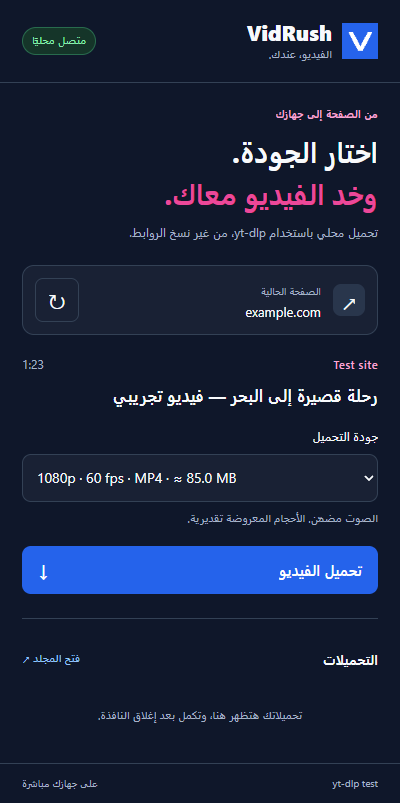
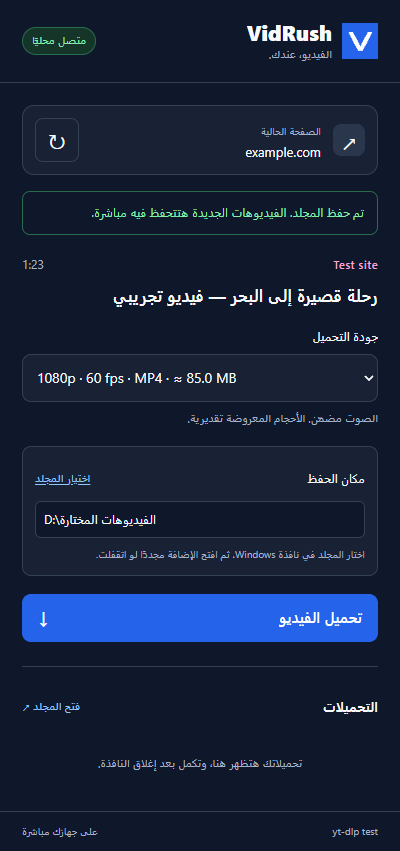
docs: explain folder selection and remembered save locations
Update the English guide and screenshot with Windows folder selection, cancellation behavior, existing-download semantics, update steps, and troubleshooting.

Committed-By-Agent: codex

diff --git a/README.md b/README.md
@@ -23,6 +23,7 @@ VidRush consists of a Chrome extension and a local companion powered by [yt-dlp]
 
 - Analyze the video page currently open in Chrome.
 - Choose from available resolutions, frame rates, and output containers.
+- Choose a download folder with the Windows folder picker; your choice is remembered.
 - Download video **with audio**, including formats that require merging.
 - Follow progress, cancel a download, and open the download folder.
 - Close the extension popup while downloads continue. **Keep Chrome running.**
@@ -82,30 +83,33 @@ The guide is saved at `%LOCALAPPDATA%\VidRush\setup-guide.html`; double-click it
 2. Click the **VidRush** toolbar icon.
 3. Wait for the connection badge to show **`متصل محليًا`** (Connected locally), then wait for analysis to finish.
 4. Check the video title. Select a quality under **`جودة التحميل`** (Download quality).
-5. Click **`تحميل الفيديو`** (Download video).
-6. Follow the download under **`التحميلات`** (Downloads). You can close the popup; keep Chrome open.
-7. When the status says **`اكتمل التحميل`** (Completed), click **`فتح المجلد`** (Open folder).
+5. Under **`مكان الحفظ`** (Save location), check the displayed folder. To change it, click **`اختيار المجلد`** (Choose folder), select your folder in Windows, then reopen VidRush if the popup closed. Your selection is saved automatically.
+6. Click **`تحميل الفيديو`** (Download video). The file is saved directly into the folder shown; no move is needed afterward.
+7. Follow the download under **`التحميلات`** (Downloads). You can close the popup; keep Chrome open.
+8. When the status says **`اكتمل التحميل`** (Completed), click **`فتح المجلد`** (Open folder) on that download to open its actual saved location.
 
 The circular-arrow button re-analyzes the current page. Use **`إلغاء`** (Cancel) beside an active download to stop it. Up to **two downloads** can run at once.
 
 ### Where files are saved
 
-Files go into **`VidRush` inside your Windows Downloads folder**, including a Downloads folder you relocated in Windows. For a standard account this is:
+By default, files go into **`VidRush` inside your Windows Downloads folder**, including a Downloads folder you relocated in Windows. For a standard account this is:
 
 ```text
 C:\Users\<your-user>\Downloads\VidRush
 ```
 
-The installer prints the exact destination, and the extension's Open folder button opens it. Downloads are written by the companion, so they do **not** appear in Chrome's built-in download manager.
+The extension shows the current destination under **Save location**. Each download also keeps its own destination. The top Open folder button opens the current default folder; a completed download's Open folder button opens that video's folder. Downloads are written by the companion, so they do **not** appear in Chrome's built-in download manager.
 
 To change the destination:
 
-1. Close Chrome so the companion stops.
-2. Open `%LOCALAPPDATA%\VidRush\config.json` in a text editor.
-3. Change `downloadDir` to an absolute folder path. In JSON, use double backslashes, for example `"D:\\My Videos"`.
-4. Save the file and reopen Chrome.
+1. Open VidRush on a video page and wait for the quality choices.
+2. Click **`اختيار المجلد`** (Choose folder) below the quality list.
+3. Choose an existing folder, or create a new one using the Windows folder dialog, and confirm.
+4. Reopen the extension if it closed while the Windows dialog had focus. Check the displayed path, then start the download.
 
-Reinstalling preserves your existing `downloadDir` setting.
+The folder is remembered across Chrome restarts and becomes the default for new downloads. Cancelling leaves the previous setting unchanged. Existing files and downloads already in progress stay in their original folders. If the folder cannot be written to or the setting cannot be saved, VidRush reports an error and keeps the previous destination. No configuration-file editing is required.
+
+Reinstalling preserves your selected folder. **After updating to this feature, close Chrome, rerun `Install.cmd`, and reload the extension** so the companion includes the native folder picker.
 
 File names include the source video ID and format IDs, so different qualities of the same video can be saved separately. Downloading the same choice again does not overwrite an existing file.
 
@@ -170,6 +174,10 @@ If you customized `downloadDir` to point inside the companion installation folde
 | Analysis times out | Retry on the individual video's page. Analysis has a 90-second limit. Check the connection and update the companion. |
 | Download fails with a site error | The original yt-dlp error appears in the download card. Update the companion. Authentication and anti-bot restrictions may still prevent downloading. |
 | Quality list is old or selection expired | Press the circular-arrow button to analyze the page again. |
+| Popup closes when choosing a folder | Finish or cancel the Windows dialog, then click VidRush again. The background connection retains your selection. |
+| Folder picker is already open | Finish or cancel the existing Windows folder dialog before starting another selection. |
+| Choosing a folder reports an unknown action | Close Chrome, rerun `Install.cmd`, reopen Chrome and reload VidRush. Both the extension and companion must be updated. |
+| A folder cannot be saved or written to | Choose a writable folder on an available drive, check its permissions and free space, and retry. The previous folder remains selected if saving fails. |
 | Download percentage restarts | Separate audio and video tracks have their own progress. Wait until the final status is Completed. |
 | No download appears in Chrome's manager | This is expected. Use VidRush's Open folder button; the companion saves files directly. |
 | Files stop after closing Chrome | Keep Chrome running during downloads. Re-analyze and retry after reopening it. |
@@ -235,7 +243,7 @@ To run an additional end-to-end native test on Windows **after installing the co
 npm run test:native
 ```
 
-This generates an original test video using FFmpeg, serves it on localhost, and sends real framed messages to the companion to analyze and download it with yt-dlp. Temporary files are isolated from your regular download folder.
+This generates an original test video using FFmpeg, serves it on localhost, and sends real framed messages to the companion to analyze and download it with yt-dlp. It also persists an injected folder selection, restarts the companion, and verifies that the actual files land in that Unicode folder. The graphical folder picker is mocked in this automated test. Temporary files are isolated from your regular download folder.
 
 To additionally check that Chrome can launch the **registered** native companion:
 

diff --git a/docs/ARCHITECTURE.md b/docs/ARCHITECTURE.md
@@ -7,6 +7,7 @@
 - `host/index.cjs`: Validates the caller origin, reads configuration, and handles Chrome's length-prefixed UTF-8 JSON protocol.
 - `host/companion.cjs`: Runs yt-dlp as a subprocess without a shell, limits concurrent analyses/downloads, parses progress, and cancels process trees on Windows.
 - `host/media.cjs`: Validates web URLs and builds exact source-format choices. Private selectors remain in the companion; the UI receives opaque choice IDs.
+- `host/folders.cjs` / `host/select-folder.ps1`: Opens a Windows folder dialog in an STA PowerShell process, checks the selected folder is writable, and atomically saves the default destination. Only the trusted local dialog returns a path; the extension cannot pass arbitrary output paths.
 - `scripts/install.cjs`: Derives the stable extension ID, verifies upstream release hashes, installs a local runtime and tools, and registers the native host for the current Windows user.
 - `Install.cmd` / `scripts/bootstrap.ps1`: The entry point works before Node.js is installed. It reuses a compatible runtime or downloads a matching official LTS Windows ZIP, verifies SHA-256, and starts the installer. A mutex prevents overlapping setup windows. No global Node.js installation or PATH changes are required.
 - `scripts/setup.cjs` / `scripts/setup-guide.html`: Copies the extension to `%LOCALAPPDATA%\VidRush\extension` and generates a local activation guide with escaped paths. Chrome opens its Extensions page beside the guide when found in standard install locations. The user enables Developer mode and loads the installed folder; setup does not change browser policies or profiles.
@@ -34,7 +35,9 @@ sequenceDiagram
 
 ## Boundaries and lifecycle
 
-The helper only accepts `ping`, `inspect`, `download`, `cancel`, `status`, and `openFolder`. The extension cannot submit arbitrary command-line arguments, shell commands, selectors, or output paths. yt-dlp configuration and external plugin directories are ignored. HTTP(S) URLs are separated from options using `--`.
+The helper only accepts `ping`, `inspect`, `download`, `cancel`, `status`, `chooseFolder`, and `openFolder`. The extension cannot submit arbitrary command-line arguments, shell commands, selectors, or output paths. yt-dlp configuration and external plugin directories are ignored. HTTP(S) URLs are separated from options using `--`.
+
+Folder selection is owned by the service worker and companion, rather than the popup, because Chrome closes a popup when the native dialog receives focus. Selection has no fixed request deadline; it finishes when the user confirms or cancels. Session storage tracks the current folder and pending picker, and the companion persists the confirmed path in `config.json`. Cancelling and failed validation/persistence leave the old setting intact. Each job snapshots its destination when it starts; subsequent folder changes do not redirect an active job or its completion-path validation. Per-job Open folder actions resolve that snapshot by job ID in the companion.
 
 The helper rejects DRM formats and selections without audio. Separate tracks are combined with FFmpeg; compatible MP4/M4A combinations produce MP4 and other combinations produce MKV, without transcoding. Reported size is shown only when both track sizes are known.
 
